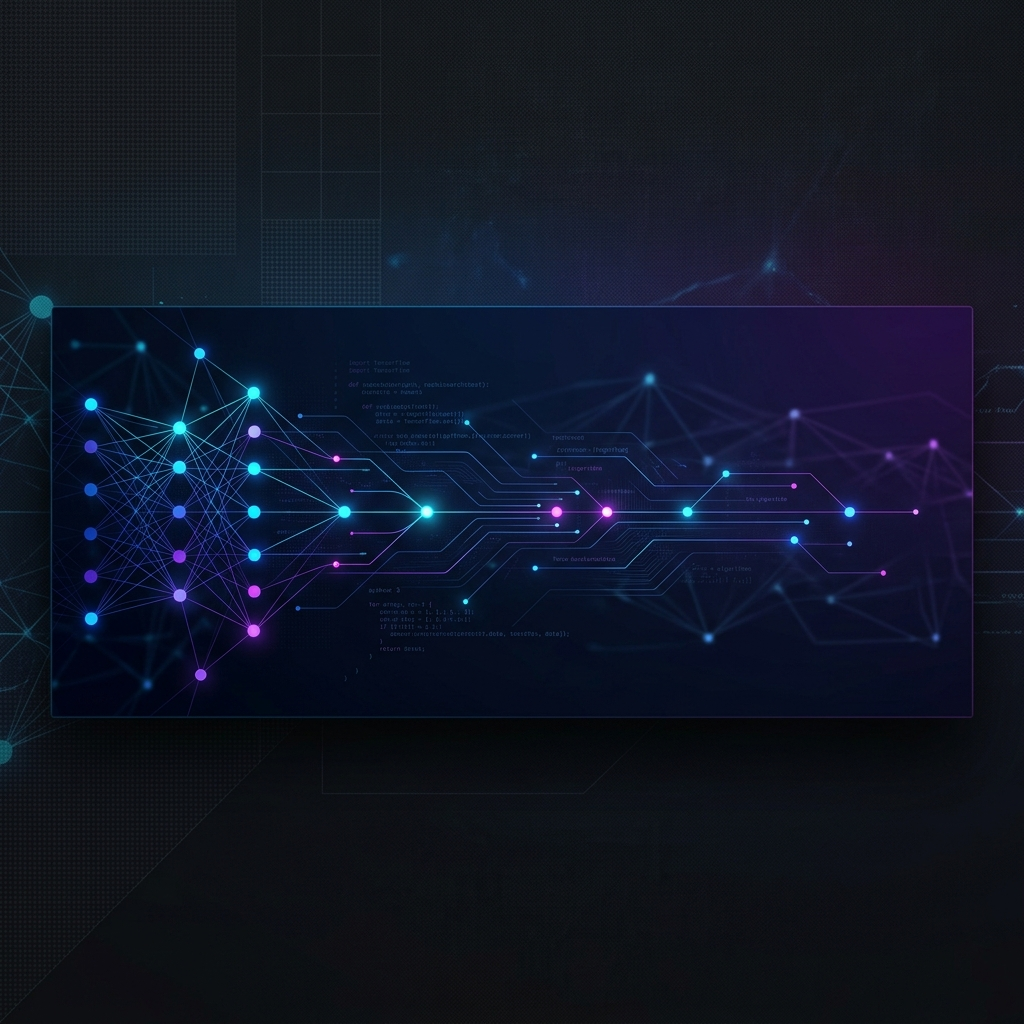
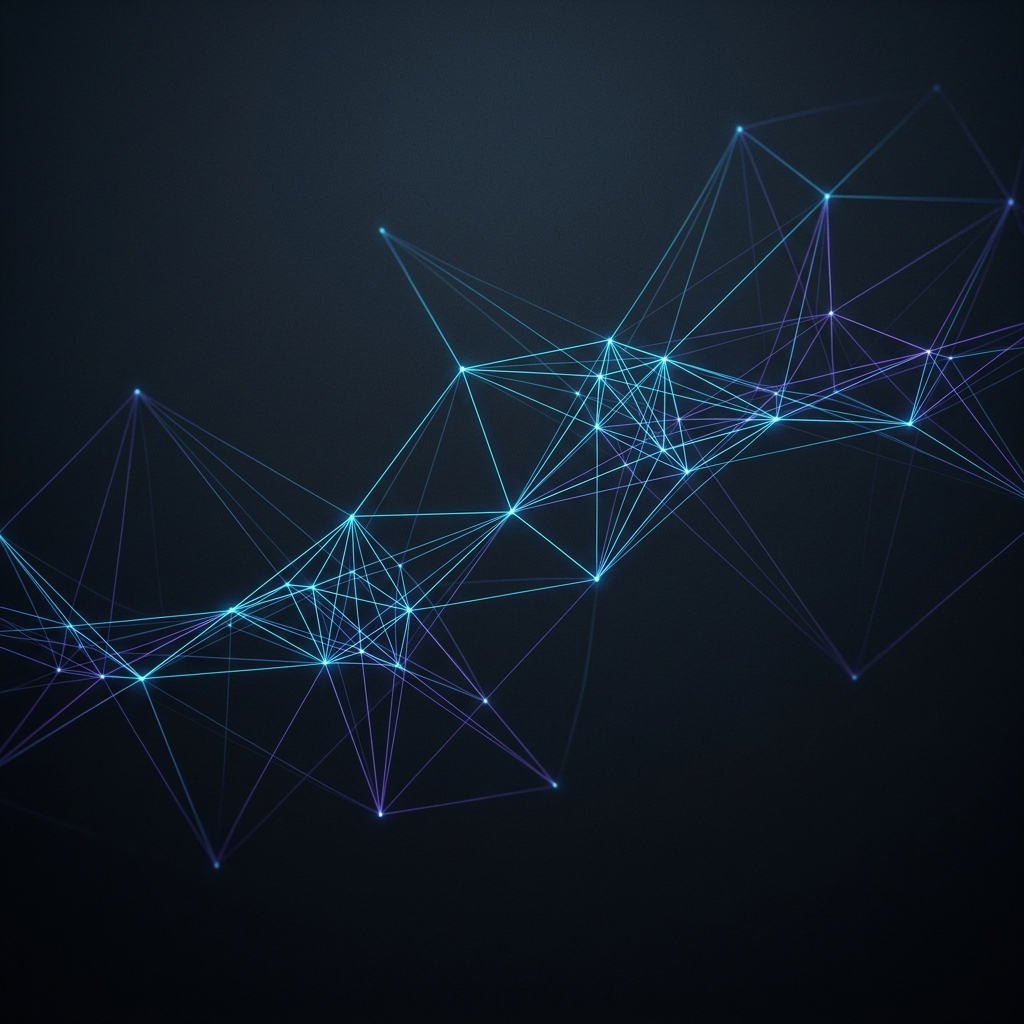
Redesign: Ultra-modern professional aesthetic

diff --git a/README.md b/README.md
@@ -1,88 +1,77 @@
-# Hi there, I'm Suraj Singh 👋
-## AI Systems Architect | Full-Stack Automation Engineer
+<p align="center">
+  <img src="banner.png" width="100%" alt="Suraj Singh Banner" />
+</p>
 
-![Banner](banner.png)
+<h1 align="center">SURAJ SINGH</h1>
+<p align="center">
+  <b>AI SYSTEMS ARCHITECT & AUTOMATION STRATEGIST</b><br>
+  <i>Designing high-fidelity autonomous orchestration for global scale.</i>
+</p>
 
-### 🚀 About Me
-I specialize in architecting high-fidelity **AI Revenue Funnels** and **Autonomous Orchestration Systems**. My work focuses on bridging the gap between complex AI cognitive architectures and real-world business automation, specifically in the Real Estate and Lead Generation sectors.
-
-- 🤖 **Current Focus:** Building autonomous cold-calling agents and lead qualification pipelines.
-- 🏗 **Architecture:** Expert in designing scalable backend systems for AI-driven workflows.
-- ⚡ **Efficiency:** Passionate about automating 90% of manual business operations to maximize ROI.
-
----
-
-### 🛠 Tech Stack & Skills
-
-<table>
-  <tr>
-    <td align="center" width="120">
-      <img src="https://raw.githubusercontent.com/devicons/devicon/master/icons/javascript/javascript-original.svg" width="40" height="40" alt="JS" />
-      <br>JavaScript
-    </td>
-    <td align="center" width="120">
-      <img src="https://raw.githubusercontent.com/devicons/devicon/master/icons/nodejs/nodejs-original.svg" width="40" height="40" alt="Node" />
-      <br>Node.js
-    </td>
-    <td align="center" width="120">
-      <img src="https://raw.githubusercontent.com/devicons/devicon/master/icons/python/python-original.svg" width="40" height="40" alt="Python" />
-      <br>Python
-    </td>
-    <td align="center" width="120">
-      <img src="https://raw.githubusercontent.com/devicons/devicon/master/icons/react/react-original.svg" width="40" height="40" alt="React" />
-      <br>React
-    </td>
-    <td align="center" width="120">
-      <img src="https://www.vectorlogo.zone/logos/puppeteerjs/puppeteerjs-icon.svg" width="40" height="40" alt="Puppeteer" />
-      <br>Puppeteer
-    </td>
-  </tr>
-  <tr>
-    <td align="center" width="120">
-      <img src="https://www.vectorlogo.zone/logos/openai/openai-icon.svg" width="40" height="40" alt="OpenAI" />
-      <br>OpenAI API
-    </td>
-    <td align="center" width="120">
-      <img src="https://raw.githubusercontent.com/devicons/devicon/master/icons/mongodb/mongodb-original.svg" width="40" height="40" alt="MongoDB" />
-      <br>Database Design
-    </td>
-    <td align="center" width="120">
-      <img src="https://raw.githubusercontent.com/devicons/devicon/master/icons/git/git-original.svg" width="40" height="40" alt="Git" />
-      <br>Version Control
-    </td>
-    <td align="center" width="120">
-      <img src="https://www.vectorlogo.zone/logos/bashit/bashit-icon.svg" width="40" height="40" alt="Automation" />
-      <br>Automation
-    </td>
-    <td align="center" width="120">
-      <img src="https://www.vectorlogo.zone/logos/php/php-icon.svg" width="40" height="40" alt="PHP" />
-      <br>Backend API
-    </td>
-  </tr>
-</table>
-
----
-
-### 📊 GitHub Activity
-<p align="left">
-  <img src="https://github-readme-stats.vercel.app/api?username=surajsingh21523-itachi&show_icons=true&theme=tokyonight&hide_border=true" alt="Suraj's Stats" />
-  <img src="https://github-readme-stats.vercel.app/api/top-langs/?username=surajsingh21523-itachi&layout=compact&theme=tokyonight&hide_border=true" alt="Top Languages" />
+<p align="center">
+  <img src="https://img.shields.io/badge/Status-Active-00C853?style=flat-square&logo=react&logoColor=white" />
+  <img src="https://img.shields.io/badge/Expertise-AI_Orchestration-6200EA?style=flat-square" />
+  <img src="https://img.shields.io/badge/Identity-Systems_Architect-01579B?style=flat-square" />
 </p>
 
 ---
 
-### 🏆 Private Project Highlights
-*Note: Source code for these projects is private. Please contact me for demos.*
+### ✦ CORE COMPETENCIES
 
-- **DripOff Cold Caller**: An end-to-end autonomous outbound calling system with intelligent lead qualification.
-- **Real Estate Automation Hub**: A centralized command center for lead scraping, processing, and agent orchestration.
-- **AI ROI Calculator**: High-precision tool for predicting and stabilizing revenue metrics for AI automation.
+**Cognitive Architecture & AI Agents**  
+Architecting self-correcting agents and complex decision-making trees for autonomous lead qualification and multi-step business logic.
+
+**High-Performance Automation**  
+Engineering stealth-optimized scraping engines, automated telephony integrations, and real-time data synchronization layers.
+
+**Systems Integration**  
+Bridging LLM intelligence with legacy infrastructure via robust API design and event-driven microservices.
+
+---
+
+### ✦ TECH STACK
+
+<p align="left">
+  <img src="https://img.shields.io/badge/javascript-%23323330.svg?style=for-the-badge&logo=javascript&logoColor=%23F7DF1E" />
+  <img src="https://img.shields.io/badge/node.js-6DA55F?style=for-the-badge&logo=node.js&logoColor=white" />
+  <img src="https://img.shields.io/badge/python-3670A0?style=for-the-badge&logo=python&logoColor=ffdd54" />
+  <img src="https://img.shields.io/badge/react-%2320232a.svg?style=for-the-badge&logo=react&logoColor=%2361DAFB" />
+  <img src="https://img.shields.io/badge/puppeteer-%2340B5A4.svg?style=for-the-badge&logo=puppeteer&logoColor=white" />
+  <img src="https://img.shields.io/badge/OpenAI-412991?style=for-the-badge&logo=openai&logoColor=white" />
+  <img src="https://img.shields.io/badge/MongoDB-%234ea94b.svg?style=for-the-badge&logo=mongodb&logoColor=white" />
+</p>
 
 ---
 
-### 📫 Let's Connect!
-- 💼 [LinkedIn](https://www.linkedin.com/in/your-linkedin-profile)
-- 📧 [Email](mailto:your-email@example.com)
+### ✦ PROJECT SHOWCASE
+*Confidentiality Note: All source code for the following projects is proprietary. Demos available upon request.*
+
+#### ▹ **DripOff Cold Caller**
+An end-to-end autonomous outbound calling system. Features intelligent lead qualification, sentiment analysis, and dynamic response orchestration.
+
+#### ▹ **Real Estate Automation Hub**
+A centralized command center for high-volume lead scraping and automated agent dispatch, optimized for stealth and scale.
+
+#### ▹ **AI ROI Architecture**
+Precision analytics engine designed to stabilize revenue metrics and predict ROI for enterprise AI automation workflows.
 
 ---
-*Generated with care by Antigravity*
+
+### ✦ PERFORMANCE METRICS
+
+<p align="left">
+  <img src="https://github-readme-stats.vercel.app/api?username=surajsingh21523-itachi&show_icons=true&theme=transparent&hide_border=true&title_color=00C853&icon_color=00C853&text_color=ffffff" height="150" />
+  <img src="https://github-readme-stats.vercel.app/api/top-langs/?username=surajsingh21523-itachi&layout=compact&theme=transparent&hide_border=true&title_color=00C853&text_color=ffffff" height="150" />
+</p>
+
+---
+
+<p align="center">
+  <a href="https://linkedin.com/in/your-profile">LinkedIn</a> • 
+  <a href="mailto:your@email.com">Email</a> • 
+  <a href="https://github.com/surajsingh21523-itachi">GitHub</a>
+</p>
+
+<p align="center">
+  <sub>&copy; 2026 SURAJ SINGH. ALL RIGHTS RESERVED.</sub>
+</p>
